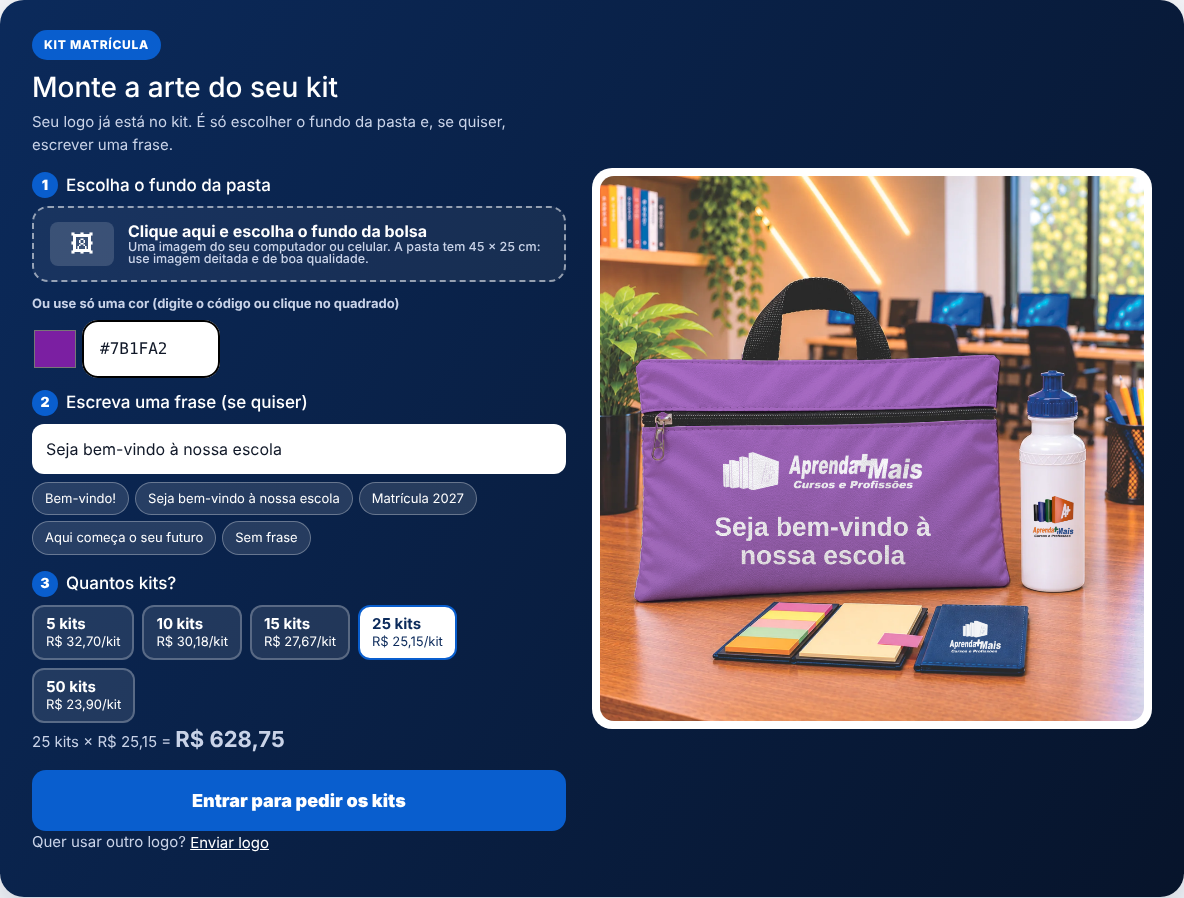
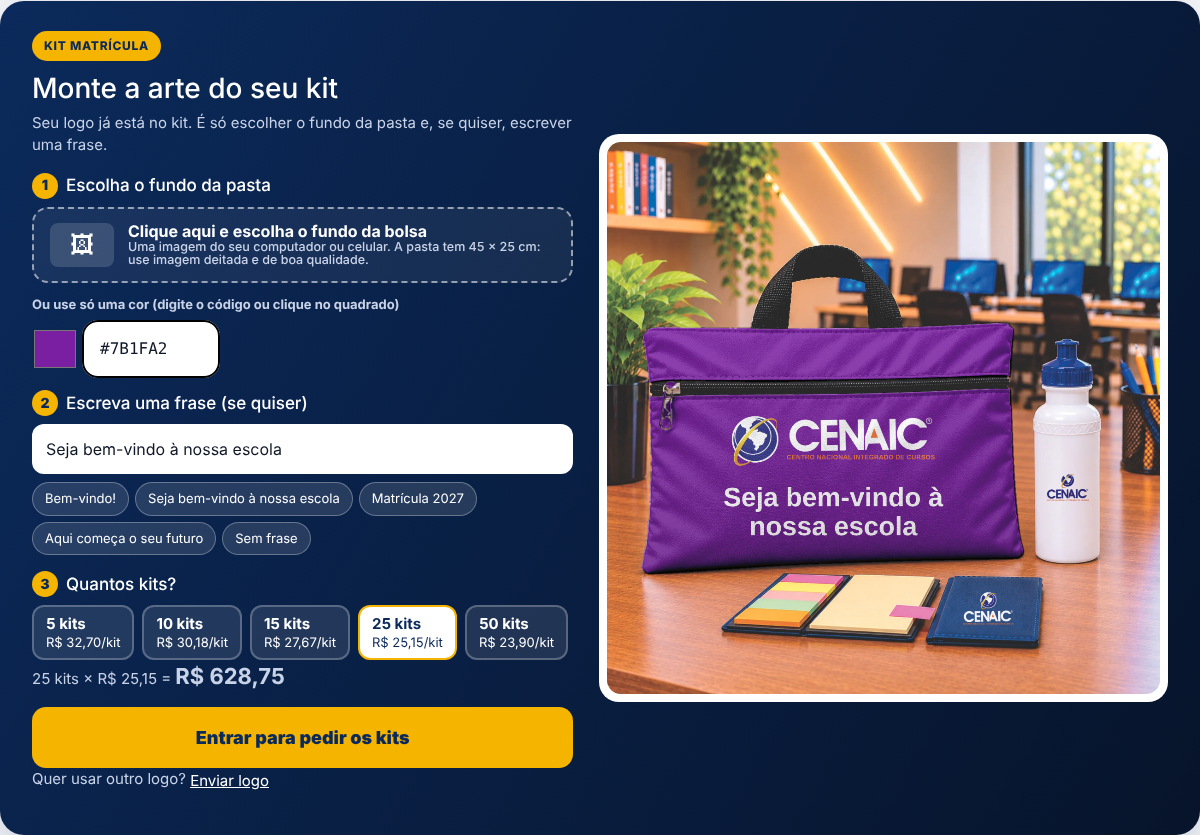
Kit Matrícula na vitrine: 15% de transparência na prévia
Claude-Session: https://claude.ai/code/session_01Jsm55pWuFSzzKgw2LqHBXD

diff --git a/vitrine-nova/kit-editor/dckit-editor.js b/vitrine-nova/kit-editor/dckit-editor.js
@@ -108,7 +108,7 @@ return a;}
 function quebra(g,t,mw){var ws=t.split(/\s+/),ls=[],c='';ws.forEach(function(w){var p=c?c+' '+w:w;if(g.measureText(p).width>mw&&c){ls.push(c);c=w;}else{c=p;}});if(c){ls.push(c);}return ls;}
 var raf=0;function pinta(){if(!OUT||raf){return;}raf=requestAnimationFrame(function(){raf=0;desenha();});}
 function desenha(){var AD=arte(1).getContext('2d').getImageData(0,0,N,N).data,o=OUT.data,i,j,a,l;
-for(i=0;i<N*N;i++){j=i*4;a=CA[i]*0.65;if(a<0.004){o[j]=FD[j];o[j+1]=FD[j+1];o[j+2]=FD[j+2];o[j+3]=255;continue;}l=LUM[i]*255-255;/* mesclagem Subtrair do Corel: arte + tecido - 255 */
+for(i=0;i<N*N;i++){j=i*4;a=CA[i]*0.85;if(a<0.004){o[j]=FD[j];o[j+1]=FD[j+1];o[j+2]=FD[j+2];o[j+3]=255;continue;}l=LUM[i]*255-255;/* mesclagem Subtrair do Corel: arte + tecido - 255 */
 o[j]=Math.max(0,Math.min(255,AD[j]+l))*a+FD[j]*(1-a);o[j+1]=Math.max(0,Math.min(255,AD[j+1]+l))*a+FD[j+1]*(1-a);o[j+2]=Math.max(0,Math.min(255,AD[j+2]+l))*a+FD[j+2]*(1-a);o[j+3]=255;}
 ctx.putImageData(OUT,0,0);
 if(LOGO){EX.forEach(function(E){if(!E.im){return;}var Lx=E.modo==='esc'?(LVE||LV||LOGO):(LV||LOGO),sil=E.modo==='esc'&&!LVE,w=E.w,h=E.h,oc=document.createElement('canvas');oc.width=w;oc.height=h;var g=oc.getContext('2d');g.imageSmoothingQuality='high';var r=Math.min(w*E.fit/Lx.w,h*E.fit/Lx.h),lw=Lx.w*r,lh=Lx.h*r;g.drawImage(Lx.cv,Lx.x,Lx.y,Lx.w,Lx.h,(w-lw)/2,(h-lh)/2,lw,lh);
